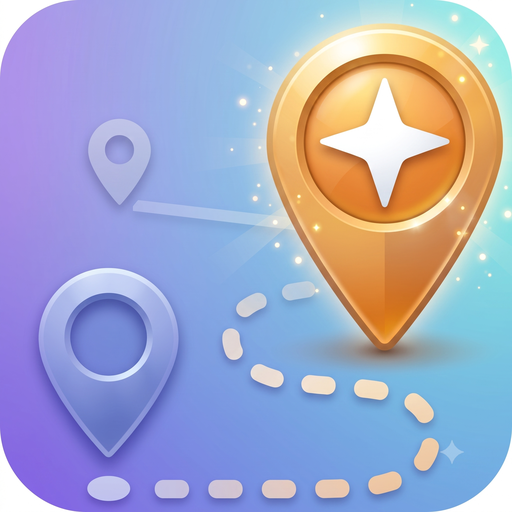
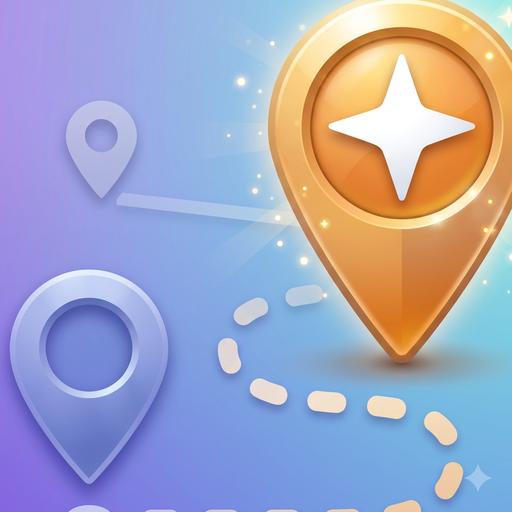
SPOT-06-S01-H02: Codexレビュー指摘2件を反映（ストアアイコンの形式・角丸）
P1: icon-512.pngが24-bit RGB（アルファ無し）で書き出されており、Play Console
のストアアイコン要件（32-bit・アルファチャンネル付き）を満たしていなかった。
RGBA（不透明、alpha=255）で再書き出し。

P2: 元絵柄(ic_launcher_source.png)自体に角丸の白余白が焼き込まれているため、
単純に縮小するとPlay側のマスクと二重に丸まる／白い縁が出る状態だった。四辺から
120pxずつ（コーナー丸め半径〜305pxの内側に収まる量）をクロップしてフルブリードの
正方形にしてからリサイズするよう変更。装飾要素（スパークル等）の欠落が無いことを
目視確認済み。

store-assets/README.mdへ両修正の経緯を記録。

Claude-Session: https://claude.ai/code/session_01LpiawXi8DwAoYhawtFQDsv

diff --git a/android/store-assets/README.md b/android/store-assets/README.md
@@ -7,15 +7,27 @@
 
 | ファイル | サイズ | 用途 |
 | :--- | :--- | :--- |
-| [`icon-512.png`](icon-512.png) | 512×512, 24-bit PNG（アルファなし） | Play Console ストアアイコン |
+| [`icon-512.png`](icon-512.png) | 512×512, 32-bit PNG（RGBA、アルファチャンネル付き） | Play Console ストアアイコン |
 | [`feature-graphic-1024x500.png`](feature-graphic-1024x500.png) | 1024×500, 24-bit PNG | フィーチャーグラフィック |
 
-生成方法: `assets-source/ic_launcher_source.png`（2048×2048、既に角丸スクエアの絵柄が
-描かれた完成品）をそのまま縮小しただけ。**アダプティブアイコンのマスク処理は経由していない**
-（ランチャーアイコンではなくストア掲載用の平面画像のため、
-[brain/notes/android-adaptive-icon-pitfalls](https://github.com/cloud42-labo/brain/blob/main/notes/android-adaptive-icon-pitfalls.md)
-で踏んだ「中央72dpだけが見える」問題は対象外）。フィーチャーグラフィックはアイコンの
-配色（紫→青のグラデーション）を引き継いだ背景に、アイコンとアプリ名・タグラインを配置した。
+生成方法（PR #28へのCodexレビュー指摘2件を反映済み）:
+
+- **`icon-512.png`**: `assets-source/ic_launcher_source.png`（2048×2048、角丸スクエアの
+  絵柄が既に描かれた完成品）は絵柄自体に角丸の余白（白）が焼き込まれているため、単純に
+  縮小するとPlay側のマスクと二重に丸まる／白い縁が出る問題があった（Codexレビュー
+  指摘・P2）。四辺から120pxずつ（コーナーの丸め半径〜305pxの内側に収まる量）を
+  クロップしてフルブリードの正方形にしてから512×512へリサイズしている。**アダプティブ
+  アイコンのマスク処理は経由していない**（ランチャーアイコンではなくストア掲載用の
+  平面画像のため、
+  [brain/notes/android-adaptive-icon-pitfalls](https://github.com/cloud42-labo/brain/blob/main/notes/android-adaptive-icon-pitfalls.md)
+  で踏んだ「中央72dpだけが見える」問題そのものは対象外）。また24-bit（アルファ無し）で
+  書き出していたためPlay Consoleのストアアイコン要件（32-bit・アルファチャンネル付き）を
+  満たしていなかった（Codexレビュー指摘・P1）。RGBA（不透明・alpha=255）で再書き出しした。
+- **`feature-graphic-1024x500.png`**: アイコンの配色（紫→青のグラデーション）を引き継いだ
+  背景に、アイコンとアプリ名・タグラインを配置した。バナー内のアイコン部分に丸角＋影を
+  つけているのは意図した装飾（ストアアイコンとは別レイヤーの合成）であり、上記の
+  ストアアイコン自体の問題とは無関係。24-bit PNG（アルファなし）はフィーチャーグラフィック
+  の仕様として正しい。
 
 ## 揃っていないもの: スクリーンショット
 
